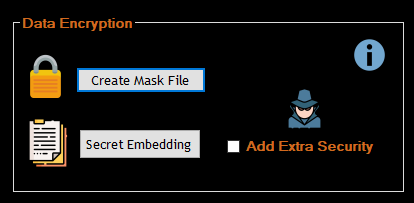
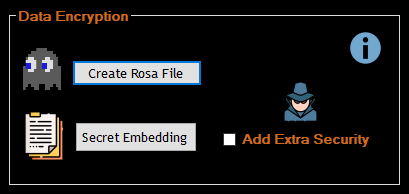
docs: Update README with Data Encryption and Secret Embedding details

diff --git a/README.md b/README.md
@@ -15,11 +15,15 @@ Mystic Mask is a versatile and secure text encryption tool designed to protect y
 - **Light Background Music:** Enjoy a pleasant, unobtrusive musical accompaniment while using the application, with the option to adjust or mute the volume.
 
 ## Data Encryption
-![Data Encryption GroupBox](/Mystic Mask/Resources/groupBox1.png)
+<img src="/Mystic Mask/Resources/groupBox1.png" alt="Mystic Data Encryption Image">
+**Create Rosa File:** This feature allows users to securely encrypt their sensitive data into a `.Rosa` file. It includes an interactive process where users can select a name and a color for their Rosa. The chosen color is embedded as metadata within the encrypted file, setting the stage for future features that will utilize this information.
 
+**Secret Embedding:** An advanced functionality that enables users to conceal encrypted text within seemingly innocuous files, such as images or documents. This technique, known as steganography, ensures that sensitive information remains hidden in plain sight, adding an extra layer of security and discretion.
+
+Both features are designed with user experience in mind, ensuring ease of use while providing robust security measures to protect your data.
 
 ## Data Recovery
-![Data Recovery GroupBox](/Mystic Mask/Resources/groupBox2.png)
+<img src="/Mystic Mask/Resources/groupBox2.png" alt="Mystic Data Recovery Image">
 
 ## Getting Started
 1. [Instructions for installation]
